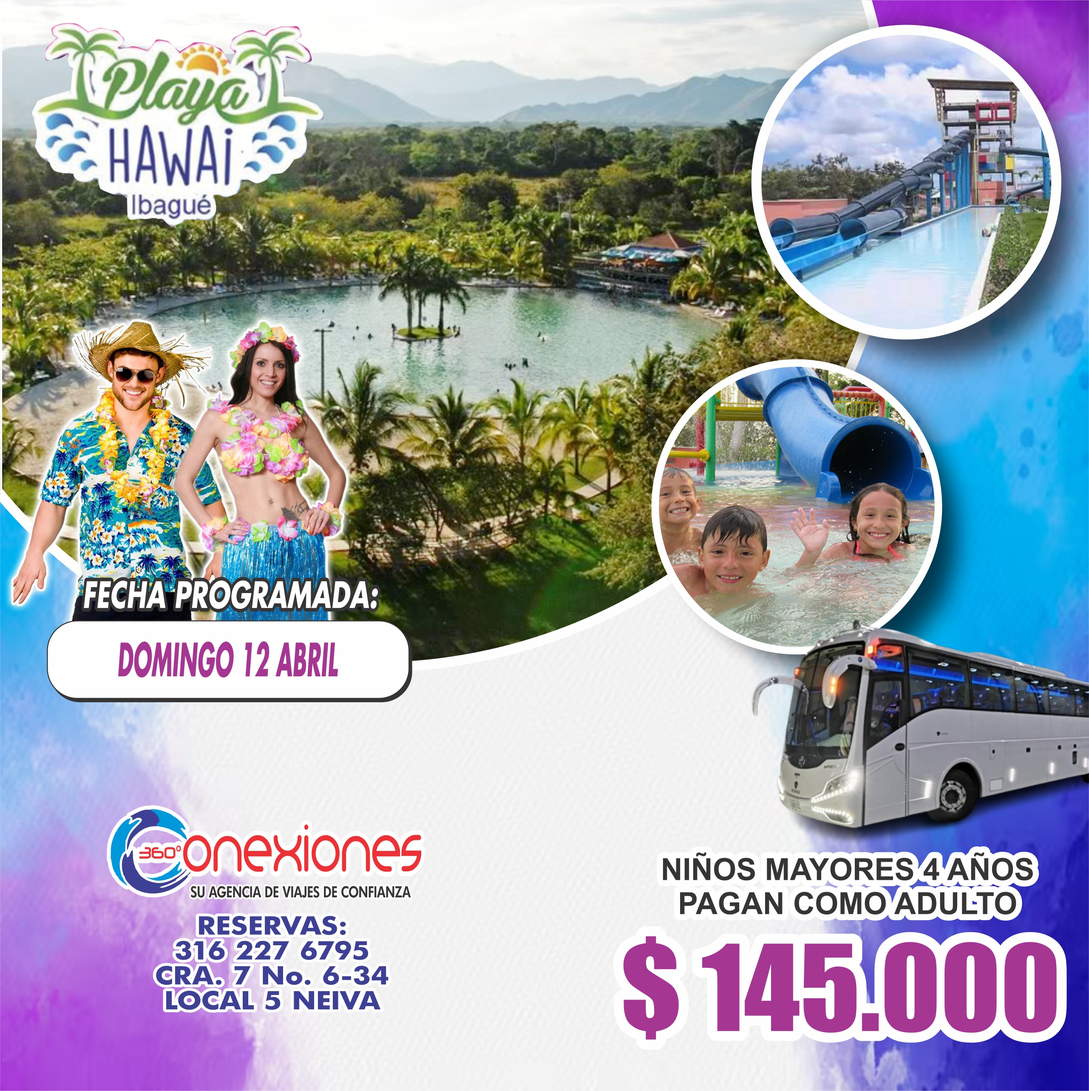
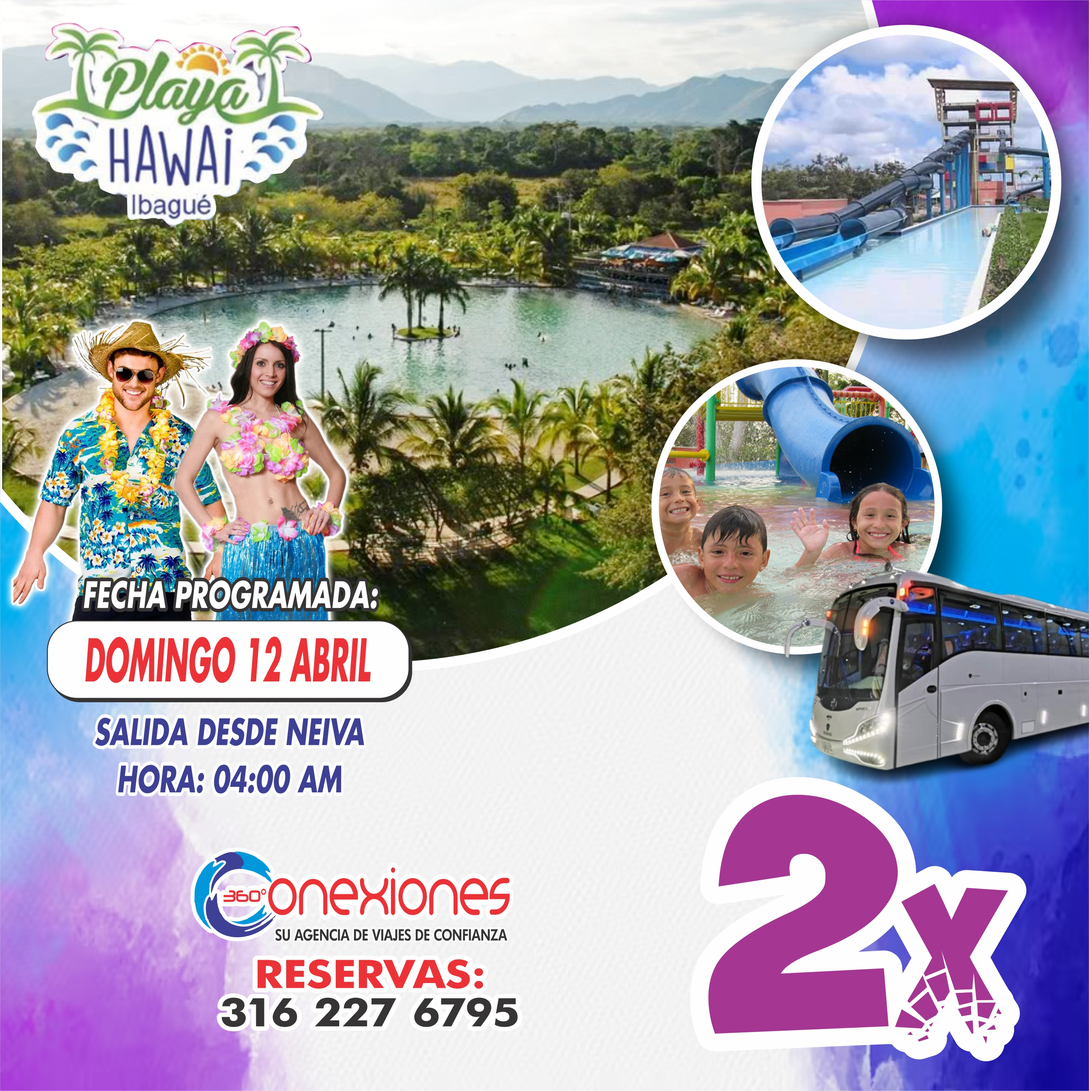
correccion abril.2

diff --git a/src/data/flyers/flyers.ts b/src/data/flyers/flyers.ts
@@ -246,7 +246,7 @@ export const flyers: FlyerPlan[] = [
     tipo: "terrestre",
     titulo: "Programación Marzo 2026",
     fechas: ["Marzo 1 - 30"],
-    precio: 145000,
+    precio: 120000,
     imagen: "/Marzo2026/listamarzo.jpg",
     whatsappBase:
       "Hola Conexiones360, quiero información del plan Marzo 2026",
@@ -255,14 +255,14 @@ export const flyers: FlyerPlan[] = [
     id: "piscilago-marzo",
     mes: "marzo",
     tipo: "terrestre",
-    titulo: "Piscilago Pasadía",
+    titulo: "Piscilago Pasadía 2X",
     fechas: [
       "Marzo 1",
       "Marzo 15",
       "Marzo 22",
       "Marzo 29",
     ],
-    precio: 170000,
+    precio: 320000,
     imagen: "/Marzo2026/piscilago.jpg",
     whatsappBase:
       "Hola Conexiones360, quiero información del plan Piscilago",
@@ -277,6 +277,17 @@ export const flyers: FlyerPlan[] = [
     imagen: "/Marzo2026/buga.jpg",
     whatsappBase:
       "Hola Conexiones360, quiero información del plan Peregrinación Buga",
+  },
+            {
+    id: "haciendanapoles-marzo",
+    mes: "marzo",
+    tipo: "terrestre",
+    titulo: "Hacienda Nápoles",
+    fechas: ["Marzo 18 al 23"],
+    precio: 650000,
+    imagen: "/Marzo2026/haciendanapoles.jpg",
+    whatsappBase:
+      "Hola Conexiones360, quiero información del plan Hacienda Nápoles",
   },
           {
     id: "medellin-coveñas",
@@ -335,17 +346,6 @@ export const flyers: FlyerPlan[] = [
       "Hola Conexiones360, quiero información del plan Abril 2026",
   },
         {
-    id: "costacaribe-abril",
-    mes: "abril",
-    tipo: "terrestre",
-    titulo: "Costa Caribe",
-    fechas: ["Marzo 30 al Abril 5"],
-    precio: 1680000,
-    imagen: "/Abril2026/costacaribe.jpg",
-    whatsappBase:
-      "Hola Conexiones360, quiero información del plan Costa Caribe",
-  },
-        {
     id: "piscilago-abril",
     mes: "abril",
     tipo: "terrestre",
@@ -361,18 +361,7 @@ export const flyers: FlyerPlan[] = [
     whatsappBase:
       "Hola Conexiones360, quiero información del plan Piscilago",
   },
-        {
-    id: "ejecafetero-abril",
-    mes: "abril",
-    tipo: "terrestre",
-    titulo: "Eje Cafetero",
-    fechas: ["Abril 2 al 4"],
-    precio: 960000,
-    imagen: "/Abril2026/ejecafe.jpg",
-    whatsappBase:
-      "Hola Conexiones360, quiero información del plan Eje Cafetero",
-  },
-          {
+            {
     id: "bugaylajas-abril",
     mes: "abril",
     tipo: "terrestre",
@@ -384,12 +373,23 @@ export const flyers: FlyerPlan[] = [
       "Hola Conexiones360, quiero información del plan Buga Y Lajas",
   },
         {
+    id: "ejecafetero-abril",
+    mes: "abril",
+    tipo: "terrestre",
+    titulo: "Eje Cafetero",
+    fechas: ["Abril 2 al 4"],
+    precio: 960000,
+    imagen: "/Abril2026/ejecafe.jpg",
+    whatsappBase:
+      "Hola Conexiones360, quiero información del plan Eje Cafetero",
+  },
+        {
     id: "playahawai-abril",
     mes: "abril",
     tipo: "terrestre",
-    titulo: "Playa Hawai",
-    fechas: ["Abril 29"],
-    precio: 145000,
+    titulo: "Playa Hawai 2X",
+    fechas: ["Abril 12"],
+    precio: 290000,
     imagen: "/Abril2026/playahawai.jpg",
     whatsappBase:
       "Hola Conexiones360, quiero información del plan Playa Hawai",
@@ -398,9 +398,9 @@ export const flyers: FlyerPlan[] = [
     id: "parquejaimeduque-abril",
     mes: "abril",
     tipo: "terrestre",
-    titulo: "Parque Jaime Duque",
-    fechas: ["Abril 18"],
-    precio: 330000,
+    titulo: "Parque Jaime Duque con Piscilago",
+    fechas: ["Abril 18 al 19"],
+    precio: 630000,
     imagen: "/Abril2026/jaimeduque.jpg",
     whatsappBase:
       "Hola Conexiones360, quiero información del plan Parque Jaime Duque",
@@ -415,6 +415,17 @@ export const flyers: FlyerPlan[] = [
     imagen: "/Abril2026/ukumari.jpg",
     whatsappBase:
       "Hola Conexiones360, quiero información del plan Ukumarí",
+  },
+          {
+    id: "medellin-abril",
+    mes: "abril",
+    tipo: "terrestre",
+    titulo: "Medellín, Guatapé y Nápoles",
+    fechas: ["Abril 30 al Mayo 3"],
+    precio: 899000,
+    imagen: "/Abril2026/medellin.jpg",
+    whatsappBase:
+      "Hola Conexiones360, quiero información del plan Medellín",
   },
 
 // Mayo
